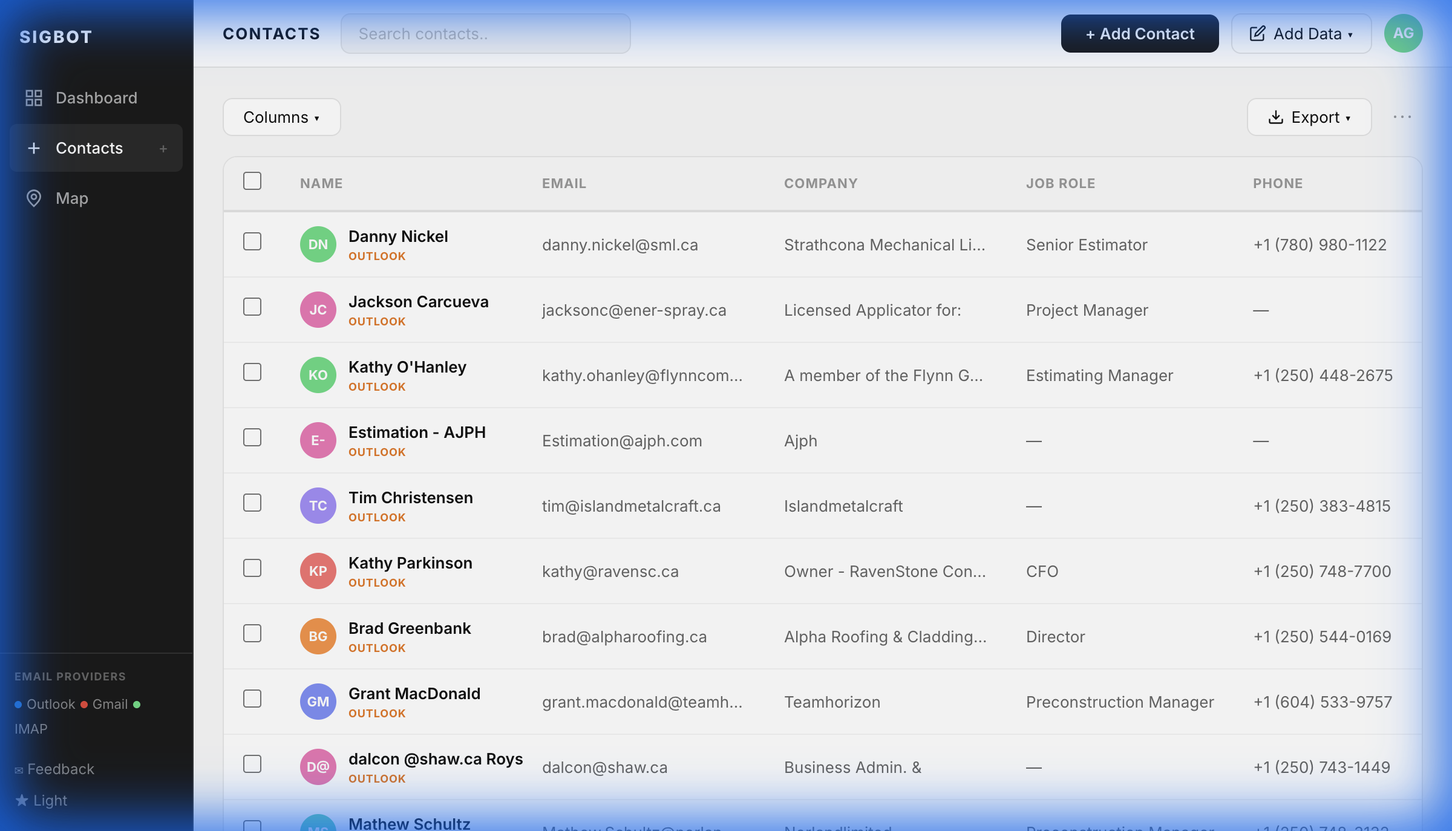
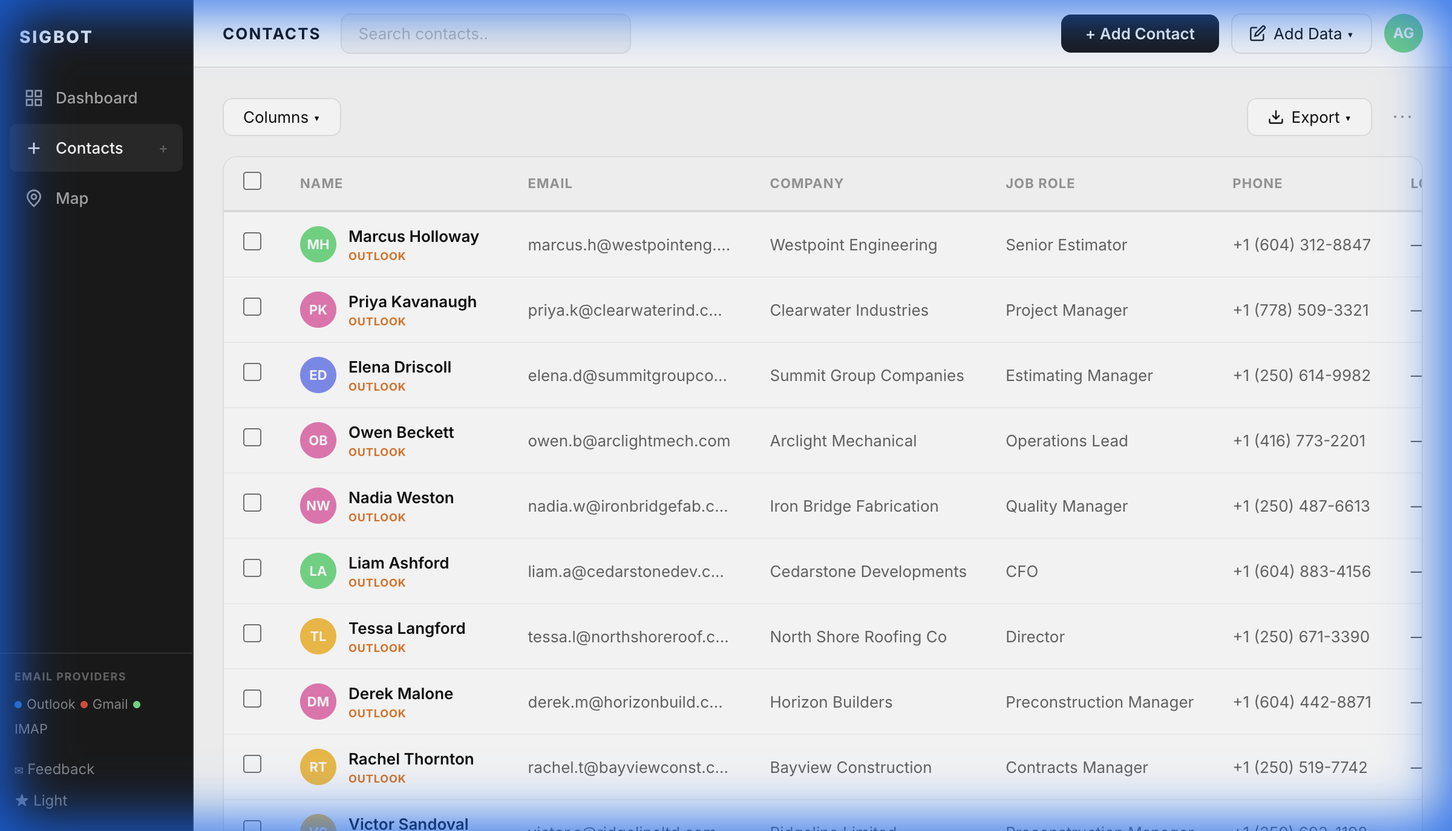
Replace all real contacts with fictional data for privacy

diff --git a/demo/assets/index-fawzYHud.js b/demo/assets/index-fawzYHud.js
@@ -1,4 +1,4 @@
-(function(){let e=document.createElement(`link`).relList;if(e&&e.supports&&e.supports(`modulepreload`))return;for(let e of document.querySelectorAll(`link[rel="modulepreload"]`))n(e);new MutationObserver(e=>{for(let t of e)if(t.type===`childList`)for(let e of t.addedNodes)e.tagName===`LINK`&&e.rel===`modulepreload`&&n(e)}).observe(document,{childList:!0,subtree:!0});function t(e){let t={};return e.integrity&&(t.integrity=e.integrity),e.referrerPolicy&&(t.referrerPolicy=e.referrerPolicy),e.crossOrigin===`use-credentials`?t.credentials=`include`:e.crossOrigin===`anonymous`?t.credentials=`omit`:t.credentials=`same-origin`,t}function n(e){if(e.ep)return;e.ep=!0;let n=t(e);fetch(e.href,n)}})();var e=[{firstName:`Danny`,lastName:`Nickel`,email:`danny.nickel@sml.ca`,company:`Strathcona Mechanical Limited`,jobTitle:`Senior Estimator`,phone:`+1 (780) 980-1122`,location:`—`,source:`OUTLOOK`,latitude:53.5461,longitude:-113.4938,createdAt:new Date(Date.now()-22*36e5).toISOString()},{firstName:`Jackson`,lastName:`Carcueva`,email:`jacksonc@ener-spray.ca`,company:`Licensed Applicator for:`,jobTitle:`Project Manager`,phone:`—`,location:`—`,source:`OUTLOOK`,latitude:49.2827,longitude:-123.1207,createdAt:new Date(Date.now()-22*36e5).toISOString()},{firstName:`Kathy`,lastName:`O'Hanley`,email:`kathy.ohanley@flynncompa...`,company:`A member of the Flynn Group of Companies`,jobTitle:`Estimating Manager`,phone:`+1 (250) 448-2675`,location:`—`,source:`OUTLOOK`,latitude:48.4284,longitude:-123.3656,createdAt:new Date(Date.now()-22*36e5).toISOString()},{firstName:`Estimation`,lastName:`- AJPH`,email:`Estimation@ajph.com`,company:`Ajph`,jobTitle:`—`,phone:`—`,location:`—`,source:`OUTLOOK`,latitude:45.5017,longitude:-73.5673,createdAt:new Date(Date.now()-22*36e5).toISOString()},{firstName:`Tim`,lastName:`Christensen`,email:`tim@islandmetalcraft.ca`,company:`Islandmetalcraft`,jobTitle:`—`,phone:`+1 (250) 383-4815`,location:`A: 540 William Street`,source:`OUTLOOK`,latitude:48.4284,longitude:-123.3656,createdAt:new Date(Date.now()-22*36e5).toISOString()},{firstName:`Kathy`,lastName:`Parkinson`,email:`kathy@ravensc.ca`,company:`Owner - RavenStone Constr...`,jobTitle:`CFO`,phone:`+1 (250) 748-7700`,location:`—`,source:`OUTLOOK`,latitude:48.7767,longitude:-123.7058,createdAt:new Date(Date.now()-23*36e5).toISOString()},{firstName:`Brad`,lastName:`Greenbank`,email:`brad@alpharoofing.ca`,company:`Alpha Roofing & Cladding Inc`,jobTitle:`Director`,phone:`+1 (250) 544-0169`,location:`—`,source:`OUTLOOK`,latitude:49.1666,longitude:-123.9401,createdAt:new Date(Date.now()-23*36e5).toISOString()},{firstName:`Grant`,lastName:`MacDonald`,email:`grant.macdonald@teamhori...`,company:`Teamhorizon`,jobTitle:`Preconstruction Manager`,phone:`+1 (604) 533-9757`,location:`27078 56 Ave`,source:`OUTLOOK`,latitude:49.1044,longitude:-122.6609,createdAt:new Date(Date.now()-24*36e5).toISOString()},{firstName:`dalcon`,lastName:`@shaw.ca Roys`,email:`dalcon@shaw.ca`,company:`Business Admin. &`,jobTitle:`—`,phone:`+1 (250) 743-1449`,location:`Physical Address: Unit B 148...`,source:`OUTLOOK`,latitude:48.7438,longitude:-123.7088,createdAt:new Date(Date.now()-24*36e5).toISOString()},{firstName:`Mathew`,lastName:`Schultz`,email:`Mathew.Schultz@norlandlim...`,company:`Norlandlimited`,jobTitle:`Preconstruction Manager`,phone:`+1 (250) 748-3132`,location:`Address: 8338 Crofton Rd, ...`,source:`OUTLOOK`,latitude:48.8612,longitude:-123.6523,createdAt:new Date(Date.now()-25*36e5).toISOString()},{firstName:`Anand`,lastName:`Mitchell`,email:`Anand.Mitchell@norlandlimi...`,company:`Norlandlimited`,jobTitle:`Project Manager`,phone:`21010108`,location:`British Columbia Branch: 29...`,source:`OUTLOOK`,latitude:49.2488,longitude:-122.9805,createdAt:new Date(Date.now()-25*36e5).toISOString()},{firstName:`Joseph Nello`,lastName:`Conti`,email:`JConti@vikingfire.ca`,company:`Vikingfire`,jobTitle:`Representative`,phone:`+1 (604) 324-7122`,location:`—`,source:`OUTLOOK`,latitude:49.227,longitude:-123.0032,createdAt:new Date(Date.now()-26*36e5).toISOString()},{firstName:`Sarah`,lastName:`Williams`,email:`sarah.williams@acme.com`,company:`Acme Corp`,jobTitle:`Engineer`,phone:`+1 (415) 555-0101`,location:`San Francisco, CA`,source:`OUTLOOK`,latitude:37.7749,longitude:-122.4194,createdAt:new Date(Date.now()-48*36e5).toISOString()},{firstName:`Michael`,lastName:`Chen`,email:`m.chen@techcorp.com`,company:`TechCorp`,jobTitle:`VP Engineering`,phone:`+1 (512) 555-0202`,location:`Austin, TX`,source:`OUTLOOK`,latitude:30.2672,longitude:-97.7431,createdAt:new Date(Date.now()-72*36e5).toISOString()},{firstName:`Emily`,lastName:`Rodriguez`,email:`e.rodriguez@buildco.com`,company:`BuildCo`,jobTitle:`Operations Manager`,phone:`+1 (305) 555-0303`,location:`Miami, FL`,source:`OUTLOOK`,latitude:25.7617,longitude:-80.1918,createdAt:new Date(Date.now()-96*36e5).toISOString()},{firstName:`James`,lastName:`Thompson`,email:`j.thompson@pacific.ca`,company:`Pacific Developments`,jobTitle:`Site Manager`,phone:`+1 (604) 555-0404`,location:`Vancouver, BC`,source:`OUTLOOK`,latitude:49.2827,longitude:-123.1207,createdAt:new Date(Date.now()-120*36e5).toISOString()},{firstName:`Lisa`,lastName:`Park`,email:`l.park@northbuild.ca`,company:`North Build Solutions`,jobTitle:`Estimator`,phone:`+1 (604) 555-0505`,location:`Surrey, BC`,source:`OUTLOOK`,latitude:49.1913,longitude:-122.849,createdAt:new Date(Date.now()-144*36e5).toISOString()},{firstName:`Robert`,lastName:`Singh`,email:`r.singh@westcoast.ca`,company:`West Coast Electric`,jobTitle:`Electrician`,phone:`+1 (604) 555-0606`,location:`Burnaby, BC`,source:`OUTLOOK`,latitude:49.2488,longitude:-122.9805,createdAt:new Date(Date.now()-168*36e5).toISOString()},{firstName:`Amanda`,lastName:`Foster`,email:`a.foster@islandpaving.ca`,company:`Island Paving`,jobTitle:`Admin Manager`,phone:`+1 (250) 555-0707`,location:`Nanaimo, BC`,source:`OUTLOOK`,latitude:49.1659,longitude:-123.9401,createdAt:new Date(Date.now()-192*36e5).toISOString()},{firstName:`Derek`,lastName:`Huang`,email:`d.huang@rapidconcrete.ca`,company:`Rapid Concrete`,jobTitle:`Foreman`,phone:`+1 (604) 555-0808`,location:`Langley, BC`,source:`OUTLOOK`,latitude:49.1044,longitude:-122.6609,createdAt:new Date(Date.now()-216*36e5).toISOString()},...Array.from({length:41},(e,t)=>({firstName:`Alex.Chris.Jordan.Taylor.Morgan.Casey.Riley.Drew.Blake.Quinn.Avery.Cameron.Dakota.Emery.Finley.Harper.Hayden.Jamie.Jesse.Kelly.Lane.Logan.Marley.Nico.Oakley.Parker.Peyton.Reese.Rowan.Sage.Sawyer.Skyler.Spencer.Sydney.Tatum.Toby.Val.Wesley.Wren.Zion.Ash`.split(`.`)[t],lastName:`Brown.Davis.Garcia.Harris.Jackson.Jones.Lee.Martin.Miller.Moore.Nelson.Patel.Reed.Roberts.Scott.Smith.Taylor.Thomas.Walker.White.Wilson.Wright.Young.Adams.Allen.Baker.Carter.Clark.Collins.Cook.Edwards.Evans.Green.Hall.Hill.King.Lewis.Long.Mitchell.Morris.Murphy`.split(`.`)[t],email:`contact${t+20}@company.com`,company:`Bird.Bird.Bird.Bird.Bird.Ledcor.Ledcor.PCL.PCL.Graham.EllisDon.Aecon.Chandos.Pomerleau.Whitewater.Peak.Summit.Vertex.Cascade.Alpine.Horizon.Matrix.Pinnacle.Nova.Atlas.Forge.Keystone.Sterling.Patriot.Vanguard.Titan.Apex.Nexus.Prism.Crown.Delta.Echo.Falcon.Griffin.Harbor.Iron`.split(`.`)[t],jobTitle:`Project Manager.Project Manager.Project Manager.Estimator.Estimator.Project Manager.Superintendent.Estimator.Project Manager.Project Manager.Coordinator.Engineer.Designer.Foreman.Inspector.Planner.Analyst.Director.Manager.Supervisor.Consultant.Advisor.Specialist.Lead.Coordinator.Technician.Operator.Assistant.Associate.Senior PM.VP Operations.Site Lead.QC Manager.Safety Officer.Scheduler.Procurement.Contracts.BIM Lead.Surveyor.Drafter.Laborer`.split(`.`)[t],phone:`+1 (${600+t}) 555-${String(1e3+t).slice(-4)}`,location:`—`,source:`OUTLOOK`,latitude:49.2+(Math.random()-.5)*2,longitude:-123.1+(Math.random()-.5)*2,createdAt:new Date(Date.now()-(240+t*24)*36e5).toISOString()}))];function t(){let t={};return e.forEach(e=>{t[e.company]=(t[e.company]||0)+1}),Object.entries(t).sort((e,t)=>t[1]-e[1])[0]?.[0]||`—`}function n(){let t={};return e.forEach(e=>{e.jobTitle&&e.jobTitle!==`—`&&(t[e.jobTitle]=(t[e.jobTitle]||0)+1)}),Object.entries(t).sort((e,t)=>t[1]-e[1])[0]?.[0]||`—`}function r(e){let t=Date.now()-new Date(e).getTime(),n=Math.floor(t/36e5);if(n<1)return`just now`;if(n<24)return`${n} hours ago`;let r=Math.floor(n/24);return`${r} day${r>1?`s`:``} ago`}function i(e){return((e.firstName?.[0]||``)+(e.lastName?.[0]||``)).toUpperCase()}var a=[`#4ade80`,`#f472b6`,`#60a5fa`,`#fbbf24`,`#a78bfa`,`#34d399`,`#fb923c`,`#818cf8`,`#f87171`,`#2dd4bf`];function o(e){let t=0;for(let n=0;n<e.length;n++)t=e.charCodeAt(n)+((t<<5)-t);return a[Math.abs(t)%a.length]}function s(a){let s=[...e].sort((e,t)=>new Date(t.createdAt).getTime()-new Date(e.createdAt).getTime()).slice(0,5),l=t(),u=n();a.innerHTML=`
+(function(){let e=document.createElement(`link`).relList;if(e&&e.supports&&e.supports(`modulepreload`))return;for(let e of document.querySelectorAll(`link[rel="modulepreload"]`))n(e);new MutationObserver(e=>{for(let t of e)if(t.type===`childList`)for(let e of t.addedNodes)e.tagName===`LINK`&&e.rel===`modulepreload`&&n(e)}).observe(document,{childList:!0,subtree:!0});function t(e){let t={};return e.integrity&&(t.integrity=e.integrity),e.referrerPolicy&&(t.referrerPolicy=e.referrerPolicy),e.crossOrigin===`use-credentials`?t.credentials=`include`:e.crossOrigin===`anonymous`?t.credentials=`omit`:t.credentials=`same-origin`,t}function n(e){if(e.ep)return;e.ep=!0;let n=t(e);fetch(e.href,n)}})();var e=[{firstName:`Marcus`,lastName:`Holloway`,email:`marcus.h@westpointeng.com`,company:`Westpoint Engineering`,jobTitle:`Senior Estimator`,phone:`+1 (604) 312-8847`,location:`—`,source:`OUTLOOK`,latitude:53.5461,longitude:-113.4938,createdAt:new Date(Date.now()-22*36e5).toISOString()},{firstName:`Priya`,lastName:`Kavanaugh`,email:`priya.k@clearwaterind.com`,company:`Clearwater Industries`,jobTitle:`Project Manager`,phone:`+1 (778) 509-3321`,location:`—`,source:`OUTLOOK`,latitude:49.2827,longitude:-123.1207,createdAt:new Date(Date.now()-22*36e5).toISOString()},{firstName:`Elena`,lastName:`Driscoll`,email:`elena.d@summitgroupco.com`,company:`Summit Group Companies`,jobTitle:`Estimating Manager`,phone:`+1 (250) 614-9982`,location:`—`,source:`OUTLOOK`,latitude:48.4284,longitude:-123.3656,createdAt:new Date(Date.now()-22*36e5).toISOString()},{firstName:`Owen`,lastName:`Beckett`,email:`owen.b@arclightmech.com`,company:`Arclight Mechanical`,jobTitle:`Operations Lead`,phone:`+1 (416) 773-2201`,location:`—`,source:`OUTLOOK`,latitude:45.5017,longitude:-73.5673,createdAt:new Date(Date.now()-22*36e5).toISOString()},{firstName:`Nadia`,lastName:`Weston`,email:`nadia.w@ironbridgefab.com`,company:`Iron Bridge Fabrication`,jobTitle:`Quality Manager`,phone:`+1 (250) 487-6613`,location:`—`,source:`OUTLOOK`,latitude:48.4284,longitude:-123.3656,createdAt:new Date(Date.now()-22*36e5).toISOString()},{firstName:`Liam`,lastName:`Ashford`,email:`liam.a@cedarstonedev.com`,company:`Cedarstone Developments`,jobTitle:`CFO`,phone:`+1 (604) 883-4156`,location:`—`,source:`OUTLOOK`,latitude:48.7767,longitude:-123.7058,createdAt:new Date(Date.now()-23*36e5).toISOString()},{firstName:`Tessa`,lastName:`Langford`,email:`tessa.l@northshoreroof.com`,company:`North Shore Roofing Co`,jobTitle:`Director`,phone:`+1 (250) 671-3390`,location:`—`,source:`OUTLOOK`,latitude:49.1666,longitude:-123.9401,createdAt:new Date(Date.now()-23*36e5).toISOString()},{firstName:`Derek`,lastName:`Malone`,email:`derek.m@horizonbuild.com`,company:`Horizon Builders`,jobTitle:`Preconstruction Manager`,phone:`+1 (604) 442-8871`,location:`—`,source:`OUTLOOK`,latitude:49.1044,longitude:-122.6609,createdAt:new Date(Date.now()-24*36e5).toISOString()},{firstName:`Rachel`,lastName:`Thornton`,email:`rachel.t@bayviewconst.com`,company:`Bayview Construction`,jobTitle:`Contracts Manager`,phone:`+1 (250) 519-7742`,location:`—`,source:`OUTLOOK`,latitude:48.7438,longitude:-123.7088,createdAt:new Date(Date.now()-24*36e5).toISOString()},{firstName:`Victor`,lastName:`Sandoval`,email:`victor.s@ridgelineltd.com`,company:`Ridgeline Limited`,jobTitle:`Preconstruction Manager`,phone:`+1 (250) 603-1198`,location:`—`,source:`OUTLOOK`,latitude:48.8612,longitude:-123.6523,createdAt:new Date(Date.now()-25*36e5).toISOString()},{firstName:`Sophie`,lastName:`Callahan`,email:`sophie.c@ridgelineltd.com`,company:`Ridgeline Limited`,jobTitle:`Project Manager`,phone:`+1 (604) 288-5541`,location:`—`,source:`OUTLOOK`,latitude:49.2488,longitude:-122.9805,createdAt:new Date(Date.now()-25*36e5).toISOString()},{firstName:`Marco`,lastName:`Reeves`,email:`marco.r@sentinelfire.com`,company:`Sentinel Fire Protection`,jobTitle:`Representative`,phone:`+1 (604) 791-3364`,location:`—`,source:`OUTLOOK`,latitude:49.227,longitude:-123.0032,createdAt:new Date(Date.now()-26*36e5).toISOString()},{firstName:`Aisha`,lastName:`Brennan`,email:`aisha.b@westvalleyeng.com`,company:`West Valley Engineering`,jobTitle:`Engineer`,phone:`+1 (415) 209-4418`,location:`San Francisco, CA`,source:`OUTLOOK`,latitude:37.7749,longitude:-122.4194,createdAt:new Date(Date.now()-48*36e5).toISOString()},{firstName:`Nathan`,lastName:`Whitmore`,email:`nathan.w@novatech.com`,company:`NovaTech Solutions`,jobTitle:`VP Engineering`,phone:`+1 (512) 334-7720`,location:`Austin, TX`,source:`OUTLOOK`,latitude:30.2672,longitude:-97.7431,createdAt:new Date(Date.now()-72*36e5).toISOString()},{firstName:`Carmen`,lastName:`Ellison`,email:`carmen.e@blueshoredev.com`,company:`Blueshore Developments`,jobTitle:`Operations Manager`,phone:`+1 (305) 621-8803`,location:`Miami, FL`,source:`OUTLOOK`,latitude:25.7617,longitude:-80.1918,createdAt:new Date(Date.now()-96*36e5).toISOString()},{firstName:`Ian`,lastName:`Mercer`,email:`ian.m@pacificedge.ca`,company:`Pacific Edge Projects`,jobTitle:`Site Manager`,phone:`+1 (604) 553-1192`,location:`Vancouver, BC`,source:`OUTLOOK`,latitude:49.2827,longitude:-123.1207,createdAt:new Date(Date.now()-120*36e5).toISOString()},{firstName:`Julia`,lastName:`Pearce`,email:`julia.p@northstarbc.ca`,company:`Northstar Building Co`,jobTitle:`Estimator`,phone:`+1 (604) 417-6638`,location:`Surrey, BC`,source:`OUTLOOK`,latitude:49.1913,longitude:-122.849,createdAt:new Date(Date.now()-144*36e5).toISOString()},{firstName:`Raj`,lastName:`Kensington`,email:`raj.k@coastalpower.ca`,company:`Coastal Power Electric`,jobTitle:`Electrician`,phone:`+1 (604) 209-3314`,location:`Burnaby, BC`,source:`OUTLOOK`,latitude:49.2488,longitude:-122.9805,createdAt:new Date(Date.now()-168*36e5).toISOString()},{firstName:`Megan`,lastName:`Harwood`,email:`megan.h@islandsurfacing.ca`,company:`Island Surfacing Inc`,jobTitle:`Admin Manager`,phone:`+1 (250) 331-8807`,location:`Nanaimo, BC`,source:`OUTLOOK`,latitude:49.1659,longitude:-123.9401,createdAt:new Date(Date.now()-192*36e5).toISOString()},{firstName:`Connor`,lastName:`Blackwell`,email:`connor.b@solidgroundca.com`,company:`Solid Ground Concrete`,jobTitle:`Foreman`,phone:`+1 (604) 882-4419`,location:`Langley, BC`,source:`OUTLOOK`,latitude:49.1044,longitude:-122.6609,createdAt:new Date(Date.now()-216*36e5).toISOString()},...Array.from({length:41},(e,t)=>({firstName:`Alex.Chris.Jordan.Taylor.Morgan.Casey.Riley.Drew.Blake.Quinn.Avery.Cameron.Dakota.Emery.Finley.Harper.Hayden.Jamie.Jesse.Kelly.Lane.Logan.Marley.Nico.Oakley.Parker.Peyton.Reese.Rowan.Sage.Sawyer.Skyler.Spencer.Sydney.Tatum.Toby.Val.Wesley.Wren.Zion.Ash`.split(`.`)[t],lastName:`Merritt.Colton.Vega.Stirling.Prescott.Henley.Wakefield.Carver.Donovan.Pemberton.Aldridge.Fairfax.Stratton.Lockwood.Ramsey.Whitfield.Clayborne.Everett.Hargrove.Sinclair.Dalton.Ashworth.Beaumont.Hartley.Ellsworth.Bancroft.Trenton.Courtland.Marsden.Sutherland.Halstead.Blackmore.Castleton.Waverly.Montrose.Kingsley.Landon.Crawford.Pembroke.Thornfield.Redmond`.split(`.`)[t],email:`${`alex.chris.jordan.taylor.morgan.casey.riley.drew.blake.quinn.avery.cameron.dakota.emery.finley.harper.hayden.jamie.jesse.kelly.lane.logan.marley.nico.oakley.parker.peyton.reese.rowan.sage.sawyer.skyler.spencer.sydney.tatum.toby.val.wesley.wren.zion.ash`.split(`.`)[t]}@${`crestline.crestline.crestline.crestline.crestline.edgemont.edgemont.silverlake.silverlake.grandview.fieldstone.stonebridge.arrowhead.ridgepoint.clearwater.highline.trailmark.vertex.cascade.alpine.skyward.matrix.pinnacle.nova.atlas.forge.keystone.sterling.patriot.vanguard.titan.apex.nexus.prism.crown.delta.echo.falcon.griffin.harbor.ironworks`.split(`.`)[t]}.com`,company:`Crestline.Crestline.Crestline.Crestline.Crestline.Edgemont.Edgemont.Silverlake.Silverlake.Grandview.Fieldstone.Stonebridge.Arrowhead.Ridgepoint.Clearwater.Highline.Trailmark.Vertex.Cascade.Alpine.Skyward.Matrix.Pinnacle.Nova.Atlas.Forge.Keystone.Sterling.Patriot.Vanguard.Titan.Apex.Nexus.Prism.Crown.Delta.Echo.Falcon.Griffin.Harbor.Ironworks`.split(`.`)[t],jobTitle:`Project Manager.Project Manager.Project Manager.Estimator.Estimator.Project Manager.Superintendent.Estimator.Project Manager.Project Manager.Coordinator.Engineer.Designer.Foreman.Inspector.Planner.Analyst.Director.Manager.Supervisor.Consultant.Advisor.Specialist.Lead.Coordinator.Technician.Operator.Assistant.Associate.Senior PM.VP Operations.Site Lead.QC Manager.Safety Officer.Scheduler.Procurement.Contracts.BIM Lead.Surveyor.Drafter.Laborer`.split(`.`)[t],phone:`+1 (${600+t}) 555-${String(1e3+t).slice(-4)}`,location:`—`,source:`OUTLOOK`,latitude:49.2+(Math.random()-.5)*2,longitude:-123.1+(Math.random()-.5)*2,createdAt:new Date(Date.now()-(240+t*24)*36e5).toISOString()}))];function t(){let t={};return e.forEach(e=>{t[e.company]=(t[e.company]||0)+1}),Object.entries(t).sort((e,t)=>t[1]-e[1])[0]?.[0]||`—`}function n(){let t={};return e.forEach(e=>{e.jobTitle&&e.jobTitle!==`—`&&(t[e.jobTitle]=(t[e.jobTitle]||0)+1)}),Object.entries(t).sort((e,t)=>t[1]-e[1])[0]?.[0]||`—`}function r(e){let t=Date.now()-new Date(e).getTime(),n=Math.floor(t/36e5);if(n<1)return`just now`;if(n<24)return`${n} hours ago`;let r=Math.floor(n/24);return`${r} day${r>1?`s`:``} ago`}function i(e){return((e.firstName?.[0]||``)+(e.lastName?.[0]||``)).toUpperCase()}var a=[`#4ade80`,`#f472b6`,`#60a5fa`,`#fbbf24`,`#a78bfa`,`#34d399`,`#fb923c`,`#818cf8`,`#f87171`,`#2dd4bf`];function o(e){let t=0;for(let n=0;n<e.length;n++)t=e.charCodeAt(n)+((t<<5)-t);return a[Math.abs(t)%a.length]}function s(a){let s=[...e].sort((e,t)=>new Date(t.createdAt).getTime()-new Date(e.createdAt).getTime()).slice(0,5),l=t(),u=n();a.innerHTML=`
     <div class="dashboard-view">
       <!-- Stat Cards -->
       <div class="stat-cards">

diff --git a/app/src/data.ts b/app/src/data.ts
@@ -20,202 +20,202 @@ export interface Contact {
 
 export const contacts: Contact[] = [
     {
-        firstName: 'Danny', lastName: 'Nickel',
-        email: 'danny.nickel@sml.ca',
-        company: 'Strathcona Mechanical Limited',
+        firstName: 'Marcus', lastName: 'Holloway',
+        email: 'marcus.h@westpointeng.com',
+        company: 'Westpoint Engineering',
         jobTitle: 'Senior Estimator',
-        phone: '+1 (780) 980-1122', location: '—',
+        phone: '+1 (604) 312-8847', location: '—',
         source: 'OUTLOOK',
         latitude: 53.5461, longitude: -113.4938,
         createdAt: new Date(Date.now() - 22 * 3600000).toISOString()
     },
     {
-        firstName: 'Jackson', lastName: 'Carcueva',
-        email: 'jacksonc@ener-spray.ca',
-        company: 'Licensed Applicator for:',
+        firstName: 'Priya', lastName: 'Kavanaugh',
+        email: 'priya.k@clearwaterind.com',
+        company: 'Clearwater Industries',
         jobTitle: 'Project Manager',
-        phone: '—', location: '—',
+        phone: '+1 (778) 509-3321', location: '—',
         source: 'OUTLOOK',
         latitude: 49.2827, longitude: -123.1207,
         createdAt: new Date(Date.now() - 22 * 3600000).toISOString()
     },
     {
-        firstName: 'Kathy', lastName: "O'Hanley",
-        email: 'kathy.ohanley@flynncompa...',
-        company: 'A member of the Flynn Group of Companies',
+        firstName: 'Elena', lastName: 'Driscoll',
+        email: 'elena.d@summitgroupco.com',
+        company: 'Summit Group Companies',
         jobTitle: 'Estimating Manager',
-        phone: '+1 (250) 448-2675', location: '—',
+        phone: '+1 (250) 614-9982', location: '—',
         source: 'OUTLOOK',
         latitude: 48.4284, longitude: -123.3656,
         createdAt: new Date(Date.now() - 22 * 3600000).toISOString()
     },
     {
-        firstName: 'Estimation', lastName: '- AJPH',
-        email: 'Estimation@ajph.com',
-        company: 'Ajph',
-        jobTitle: '—',
-        phone: '—', location: '—',
+        firstName: 'Owen', lastName: 'Beckett',
+        email: 'owen.b@arclightmech.com',
+        company: 'Arclight Mechanical',
+        jobTitle: 'Operations Lead',
+        phone: '+1 (416) 773-2201', location: '—',
         source: 'OUTLOOK',
         latitude: 45.5017, longitude: -73.5673,
         createdAt: new Date(Date.now() - 22 * 3600000).toISOString()
     },
     {
-        firstName: 'Tim', lastName: 'Christensen',
-        email: 'tim@islandmetalcraft.ca',
-        company: 'Islandmetalcraft',
-        jobTitle: '—',
-        phone: '+1 (250) 383-4815', location: 'A: 540 William Street',
+        firstName: 'Nadia', lastName: 'Weston',
+        email: 'nadia.w@ironbridgefab.com',
+        company: 'Iron Bridge Fabrication',
+        jobTitle: 'Quality Manager',
+        phone: '+1 (250) 487-6613', location: '—',
         source: 'OUTLOOK',
         latitude: 48.4284, longitude: -123.3656,
         createdAt: new Date(Date.now() - 22 * 3600000).toISOString()
     },
     {
-        firstName: 'Kathy', lastName: 'Parkinson',
-        email: 'kathy@ravensc.ca',
-        company: 'Owner - RavenStone Constr...',
+        firstName: 'Liam', lastName: 'Ashford',
+        email: 'liam.a@cedarstonedev.com',
+        company: 'Cedarstone Developments',
         jobTitle: 'CFO',
-        phone: '+1 (250) 748-7700', location: '—',
+        phone: '+1 (604) 883-4156', location: '—',
         source: 'OUTLOOK',
         latitude: 48.7767, longitude: -123.7058,
         createdAt: new Date(Date.now() - 23 * 3600000).toISOString()
     },
     {
-        firstName: 'Brad', lastName: 'Greenbank',
-        email: 'brad@alpharoofing.ca',
-        company: 'Alpha Roofing & Cladding Inc',
+        firstName: 'Tessa', lastName: 'Langford',
+        email: 'tessa.l@northshoreroof.com',
+        company: 'North Shore Roofing Co',
         jobTitle: 'Director',
-        phone: '+1 (250) 544-0169', location: '—',
+        phone: '+1 (250) 671-3390', location: '—',
         source: 'OUTLOOK',
         latitude: 49.1666, longitude: -123.9401,
         createdAt: new Date(Date.now() - 23 * 3600000).toISOString()
     },
     {
-        firstName: 'Grant', lastName: 'MacDonald',
-        email: 'grant.macdonald@teamhori...',
-        company: 'Teamhorizon',
+        firstName: 'Derek', lastName: 'Malone',
+        email: 'derek.m@horizonbuild.com',
+        company: 'Horizon Builders',
         jobTitle: 'Preconstruction Manager',
-        phone: '+1 (604) 533-9757', location: '27078 56 Ave',
+        phone: '+1 (604) 442-8871', location: '—',
         source: 'OUTLOOK',
         latitude: 49.1044, longitude: -122.6609,
         createdAt: new Date(Date.now() - 24 * 3600000).toISOString()
     },
     {
-        firstName: 'dalcon', lastName: '@shaw.ca Roys',
-        email: 'dalcon@shaw.ca',
-        company: 'Business Admin. &',
-        jobTitle: '—',
-        phone: '+1 (250) 743-1449', location: 'Physical Address: Unit B 148...',
+        firstName: 'Rachel', lastName: 'Thornton',
+        email: 'rachel.t@bayviewconst.com',
+        company: 'Bayview Construction',
+        jobTitle: 'Contracts Manager',
+        phone: '+1 (250) 519-7742', location: '—',
         source: 'OUTLOOK',
         latitude: 48.7438, longitude: -123.7088,
         createdAt: new Date(Date.now() - 24 * 3600000).toISOString()
     },
     {
-        firstName: 'Mathew', lastName: 'Schultz',
-        email: 'Mathew.Schultz@norlandlim...',
-        company: 'Norlandlimited',
+        firstName: 'Victor', lastName: 'Sandoval',
+        email: 'victor.s@ridgelineltd.com',
+        company: 'Ridgeline Limited',
         jobTitle: 'Preconstruction Manager',
-        phone: '+1 (250) 748-3132', location: 'Address: 8338 Crofton Rd, ...',
+        phone: '+1 (250) 603-1198', location: '—',
         source: 'OUTLOOK',
         latitude: 48.8612, longitude: -123.6523,
         createdAt: new Date(Date.now() - 25 * 3600000).toISOString()
     },
     {
-        firstName: 'Anand', lastName: 'Mitchell',
-        email: 'Anand.Mitchell@norlandlimi...',
-        company: 'Norlandlimited',
+        firstName: 'Sophie', lastName: 'Callahan',
+        email: 'sophie.c@ridgelineltd.com',
+        company: 'Ridgeline Limited',
         jobTitle: 'Project Manager',
-        phone: '21010108', location: 'British Columbia Branch: 29...',
+        phone: '+1 (604) 288-5541', location: '—',
         source: 'OUTLOOK',
         latitude: 49.2488, longitude: -122.9805,
         createdAt: new Date(Date.now() - 25 * 3600000).toISOString()
     },
     {
-        firstName: 'Joseph Nello', lastName: 'Conti',
-        email: 'JConti@vikingfire.ca',
-        company: 'Vikingfire',
+        firstName: 'Marco', lastName: 'Reeves',
+        email: 'marco.r@sentinelfire.com',
+        company: 'Sentinel Fire Protection',
         jobTitle: 'Representative',
-        phone: '+1 (604) 324-7122', location: '—',
+        phone: '+1 (604) 791-3364', location: '—',
         source: 'OUTLOOK',
         latitude: 49.2270, longitude: -123.0032,
         createdAt: new Date(Date.now() - 26 * 3600000).toISOString()
     },
     // Additional contacts for map clusters
     {
-        firstName: 'Sarah', lastName: 'Williams',
-        email: 'sarah.williams@acme.com',
-        company: 'Acme Corp',
+        firstName: 'Aisha', lastName: 'Brennan',
+        email: 'aisha.b@westvalleyeng.com',
+        company: 'West Valley Engineering',
         jobTitle: 'Engineer',
-        phone: '+1 (415) 555-0101', location: 'San Francisco, CA',
+        phone: '+1 (415) 209-4418', location: 'San Francisco, CA',
         source: 'OUTLOOK',
         latitude: 37.7749, longitude: -122.4194,
         createdAt: new Date(Date.now() - 48 * 3600000).toISOString()
     },
     {
-        firstName: 'Michael', lastName: 'Chen',
-        email: 'm.chen@techcorp.com',
-        company: 'TechCorp',
+        firstName: 'Nathan', lastName: 'Whitmore',
+        email: 'nathan.w@novatech.com',
+        company: 'NovaTech Solutions',
         jobTitle: 'VP Engineering',
-        phone: '+1 (512) 555-0202', location: 'Austin, TX',
+        phone: '+1 (512) 334-7720', location: 'Austin, TX',
         source: 'OUTLOOK',
         latitude: 30.2672, longitude: -97.7431,
         createdAt: new Date(Date.now() - 72 * 3600000).toISOString()
     },
     {
-        firstName: 'Emily', lastName: 'Rodriguez',
-        email: 'e.rodriguez@buildco.com',
-        company: 'BuildCo',
+        firstName: 'Carmen', lastName: 'Ellison',
+        email: 'carmen.e@blueshoredev.com',
+        company: 'Blueshore Developments',
         jobTitle: 'Operations Manager',
-        phone: '+1 (305) 555-0303', location: 'Miami, FL',
+        phone: '+1 (305) 621-8803', location: 'Miami, FL',
         source: 'OUTLOOK',
         latitude: 25.7617, longitude: -80.1918,
         createdAt: new Date(Date.now() - 96 * 3600000).toISOString()
     },
     {
-        firstName: 'James', lastName: 'Thompson',
-        email: 'j.thompson@pacific.ca',
-        company: 'Pacific Developments',
+        firstName: 'Ian', lastName: 'Mercer',
+        email: 'ian.m@pacificedge.ca',
+        company: 'Pacific Edge Projects',
         jobTitle: 'Site Manager',
-        phone: '+1 (604) 555-0404', location: 'Vancouver, BC',
+        phone: '+1 (604) 553-1192', location: 'Vancouver, BC',
         source: 'OUTLOOK',
         latitude: 49.2827, longitude: -123.1207,
         createdAt: new Date(Date.now() - 120 * 3600000).toISOString()
     },
     {
-        firstName: 'Lisa', lastName: 'Park',
-        email: 'l.park@northbuild.ca',
-        company: 'North Build Solutions',
+        firstName: 'Julia', lastName: 'Pearce',
+        email: 'julia.p@northstarbc.ca',
+        company: 'Northstar Building Co',
         jobTitle: 'Estimator',
-        phone: '+1 (604) 555-0505', location: 'Surrey, BC',
+        phone: '+1 (604) 417-6638', location: 'Surrey, BC',
         source: 'OUTLOOK',
         latitude: 49.1913, longitude: -122.8490,
         createdAt: new Date(Date.now() - 144 * 3600000).toISOString()
     },
     {
-        firstName: 'Robert', lastName: 'Singh',
-        email: 'r.singh@westcoast.ca',
-        company: 'West Coast Electric',
+        firstName: 'Raj', lastName: 'Kensington',
+        email: 'raj.k@coastalpower.ca',
+        company: 'Coastal Power Electric',
         jobTitle: 'Electrician',
-        phone: '+1 (604) 555-0606', location: 'Burnaby, BC',
+        phone: '+1 (604) 209-3314', location: 'Burnaby, BC',
         source: 'OUTLOOK',
         latitude: 49.2488, longitude: -122.9805,
         createdAt: new Date(Date.now() - 168 * 3600000).toISOString()
     },
     {
-        firstName: 'Amanda', lastName: 'Foster',
-        email: 'a.foster@islandpaving.ca',
-        company: 'Island Paving',
+        firstName: 'Megan', lastName: 'Harwood',
+        email: 'megan.h@islandsurfacing.ca',
+        company: 'Island Surfacing Inc',
         jobTitle: 'Admin Manager',
-        phone: '+1 (250) 555-0707', location: 'Nanaimo, BC',
+        phone: '+1 (250) 331-8807', location: 'Nanaimo, BC',
         source: 'OUTLOOK',
         latitude: 49.1659, longitude: -123.9401,
         createdAt: new Date(Date.now() - 192 * 3600000).toISOString()
     },
     {
-        firstName: 'Derek', lastName: 'Huang',
-        email: 'd.huang@rapidconcrete.ca',
-        company: 'Rapid Concrete',
+        firstName: 'Connor', lastName: 'Blackwell',
+        email: 'connor.b@solidgroundca.com',
+        company: 'Solid Ground Concrete',
         jobTitle: 'Foreman',
-        phone: '+1 (604) 555-0808', location: 'Langley, BC',
+        phone: '+1 (604) 882-4419', location: 'Langley, BC',
         source: 'OUTLOOK',
         latitude: 49.1044, longitude: -122.6609,
         createdAt: new Date(Date.now() - 216 * 3600000).toISOString()
@@ -226,16 +226,23 @@ export const contacts: Contact[] = [
             'Avery', 'Cameron', 'Dakota', 'Emery', 'Finley', 'Harper', 'Hayden', 'Jamie', 'Jesse', 'Kelly',
             'Lane', 'Logan', 'Marley', 'Nico', 'Oakley', 'Parker', 'Peyton', 'Reese', 'Rowan', 'Sage',
             'Sawyer', 'Skyler', 'Spencer', 'Sydney', 'Tatum', 'Toby', 'Val', 'Wesley', 'Wren', 'Zion', 'Ash'][i],
-        lastName: ['Brown', 'Davis', 'Garcia', 'Harris', 'Jackson', 'Jones', 'Lee', 'Martin', 'Miller', 'Moore',
-            'Nelson', 'Patel', 'Reed', 'Roberts', 'Scott', 'Smith', 'Taylor', 'Thomas', 'Walker', 'White',
-            'Wilson', 'Wright', 'Young', 'Adams', 'Allen', 'Baker', 'Carter', 'Clark', 'Collins', 'Cook',
-            'Edwards', 'Evans', 'Green', 'Hall', 'Hill', 'King', 'Lewis', 'Long', 'Mitchell', 'Morris', 'Murphy'][i],
-        email: `contact${i + 20}@company.com`,
-        company: ['Bird', 'Bird', 'Bird', 'Bird', 'Bird', 'Ledcor', 'Ledcor', 'PCL', 'PCL', 'Graham',
-            'EllisDon', 'Aecon', 'Chandos', 'Pomerleau', 'Whitewater', 'Peak', 'Summit', 'Vertex',
-            'Cascade', 'Alpine', 'Horizon', 'Matrix', 'Pinnacle', 'Nova', 'Atlas', 'Forge', 'Keystone',
+        lastName: ['Merritt', 'Colton', 'Vega', 'Stirling', 'Prescott', 'Henley', 'Wakefield', 'Carver', 'Donovan', 'Pemberton',
+            'Aldridge', 'Fairfax', 'Stratton', 'Lockwood', 'Ramsey', 'Whitfield', 'Clayborne', 'Everett', 'Hargrove', 'Sinclair',
+            'Dalton', 'Ashworth', 'Beaumont', 'Hartley', 'Ellsworth', 'Bancroft', 'Trenton', 'Courtland', 'Marsden', 'Sutherland',
+            'Halstead', 'Blackmore', 'Castleton', 'Waverly', 'Montrose', 'Kingsley', 'Landon', 'Crawford', 'Pembroke', 'Thornfield', 'Redmond'][i],
+        email: `${['alex', 'chris', 'jordan', 'taylor', 'morgan', 'casey', 'riley', 'drew', 'blake', 'quinn',
+            'avery', 'cameron', 'dakota', 'emery', 'finley', 'harper', 'hayden', 'jamie', 'jesse', 'kelly',
+            'lane', 'logan', 'marley', 'nico', 'oakley', 'parker', 'peyton', 'reese', 'rowan', 'sage',
+            'sawyer', 'skyler', 'spencer', 'sydney', 'tatum', 'toby', 'val', 'wesley', 'wren', 'zion', 'ash'][i]}@${['crestline', 'crestline', 'crestline', 'crestline', 'crestline', 'edgemont', 'edgemont', 'silverlake', 'silverlake', 'grandview',
+                'fieldstone', 'stonebridge', 'arrowhead', 'ridgepoint', 'clearwater', 'highline', 'trailmark', 'vertex',
+                'cascade', 'alpine', 'skyward', 'matrix', 'pinnacle', 'nova', 'atlas', 'forge', 'keystone',
+                'sterling', 'patriot', 'vanguard', 'titan', 'apex', 'nexus', 'prism', 'crown', 'delta',
+                'echo', 'falcon', 'griffin', 'harbor', 'ironworks'][i]}.com`,
+        company: ['Crestline', 'Crestline', 'Crestline', 'Crestline', 'Crestline', 'Edgemont', 'Edgemont', 'Silverlake', 'Silverlake', 'Grandview',
+            'Fieldstone', 'Stonebridge', 'Arrowhead', 'Ridgepoint', 'Clearwater', 'Highline', 'Trailmark', 'Vertex',
+            'Cascade', 'Alpine', 'Skyward', 'Matrix', 'Pinnacle', 'Nova', 'Atlas', 'Forge', 'Keystone',
             'Sterling', 'Patriot', 'Vanguard', 'Titan', 'Apex', 'Nexus', 'Prism', 'Crown', 'Delta',
-            'Echo', 'Falcon', 'Griffin', 'Harbor', 'Iron'][i],
+            'Echo', 'Falcon', 'Griffin', 'Harbor', 'Ironworks'][i],
         jobTitle: ['Project Manager', 'Project Manager', 'Project Manager', 'Estimator', 'Estimator',
             'Project Manager', 'Superintendent', 'Estimator', 'Project Manager', 'Project Manager',
             'Coordinator', 'Engineer', 'Designer', 'Foreman', 'Inspector', 'Planner', 'Analyst',

diff --git a/demo/index.html b/demo/index.html
@@ -19,7 +19,7 @@
   <script src="https://unpkg.com/leaflet@1.9.4/dist/leaflet.js"></script>
   <!-- Leaflet MarkerCluster JS -->
   <script src="https://unpkg.com/leaflet.markercluster@1.5.3/dist/leaflet.markercluster.js"></script>
-  <script type="module" crossorigin src="./assets/index-BI6kHkr4.js"></script>
+  <script type="module" crossorigin src="./assets/index-fawzYHud.js"></script>
   <link rel="stylesheet" crossorigin href="./assets/index-Dy4StjXM.css">
 </head>
 
